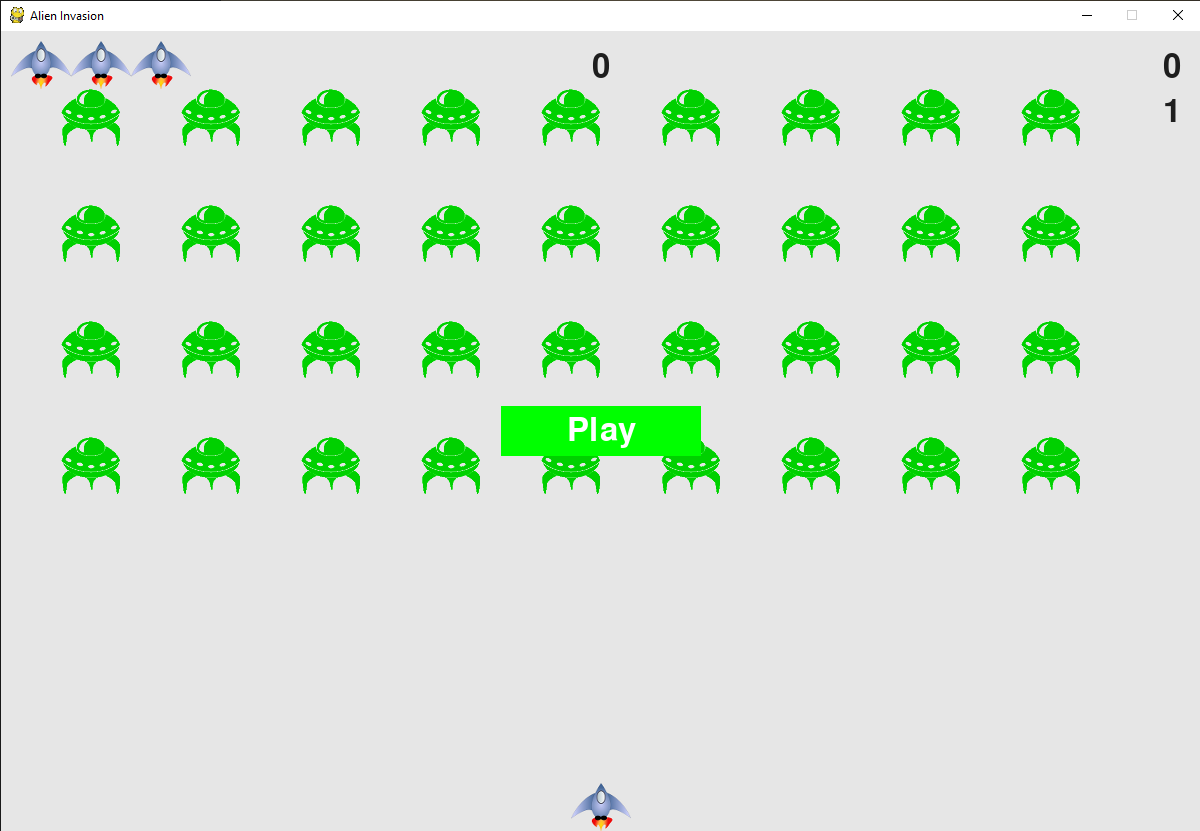
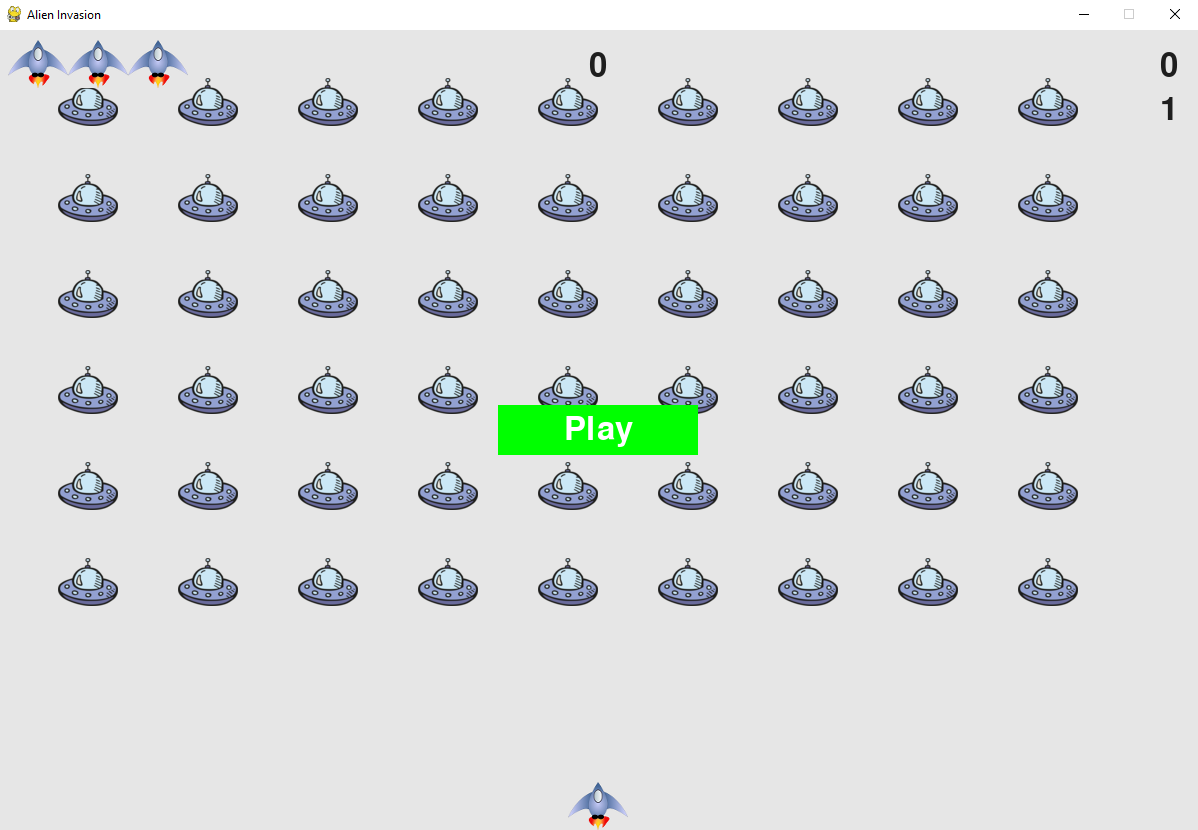
Update 0.2

diff --git a/scoreboard.py b/scoreboard.py
@@ -6,15 +6,15 @@ from ship import Ship
 class Scoreboard:
     """Класс для отображения игровой информации о счете."""
 
-    def __init__(self, ai_settings, screen, stats):
+    def __init__(self, settings, screen, stats):
         """Инициализация атрибутов подсчета очков."""
         self.screen = screen
         self.screen_rect = screen.get_rect()
-        self.ai_settings = ai_settings
+        self.settings = settings
         self.stats = stats
 
         # Настройки шрифта для отображения счета.
-        self.text_color = (30, 30, 30)
+        self.text_color = (230, 230, 230)
         self.font = pygame.font.SysFont(None, 48)
 
         # Подготовка начальных изображений счета.
@@ -27,7 +27,7 @@ class Scoreboard:
         """Преобразует текущий счет в графическое изображение."""
         rounded_score = round(self.stats.score, -1)
         score_str = f"{rounded_score:,}"
-        self.score_image = self.font.render(score_str, True, self.text_color, self.ai_settings.bg_color)
+        self.score_image = self.font.render(score_str, True, self.text_color)
 
         # Размещение счета в правой верхней части экрана.
         self.score_rect = self.score_image.get_rect()
@@ -38,7 +38,7 @@ class Scoreboard:
         """Преобразует рекордный счет в графическое изображение."""
         high_score = round(self.stats.high_score, -1)
         high_score_str = f"{high_score:,}"
-        self.high_score_image = self.font.render(high_score_str, True, self.text_color, self.ai_settings.bg_color)
+        self.high_score_image = self.font.render(high_score_str, True, self.text_color)
 
         # Размещение рекордного счета по центру верхней части экрана.
         self.high_score_rect = self.high_score_image.get_rect()
@@ -47,7 +47,7 @@ class Scoreboard:
 
     def prep_level(self):
         """Преобразует уровень в графическое изображение."""
-        self.level_image = self.font.render(str(self.stats.level), True, self.text_color, self.ai_settings.bg_color)
+        self.level_image = self.font.render(str(self.stats.level), True, self.text_color)
 
         # Размещение уровня под текущим счетом.
         self.level_rect = self.level_image.get_rect()
@@ -58,7 +58,7 @@ class Scoreboard:
         """Показывает количество оставшихся кораблей."""
         self.ships = Group()
         for ship_number in range(self.stats.ships_left):
-            ship = Ship(self.ai_settings, self.screen)
+            ship = Ship(self.settings, self.screen)
             ship.rect.x = 10 + ship_number * ship.rect.width
             ship.rect.y = 10
             self.ships.add(ship)

diff --git a/game_functions.py b/game_functions.py
@@ -73,19 +73,25 @@ def fire_bullet(settings, screen, ship, bullets):
 
 def update_screen(settings, screen, stats, sb, ship, aliens, bullets, play_button):
     """Обновляет изображения на экране и отображает новый экран."""
-    screen.fill(settings.bg_color)
+    # Отображение изображения фона.
+    screen.blit(settings.bg_image, (0, 0))
     
+    # Перерисовка всех снарядов позади корабля и пришельцев.
     for bullet in bullets.sprites():
         bullet.draw_bullet()
     ship.blitme()
     aliens.draw(screen)
     
+    # Отображение информации о счете.
     sb.show_score()
 
+    # Отображение кнопки Play, если игра неактивна.
     if not stats.game_active:
         play_button.draw_button()
 
+    # Отображение последнего прорисованного экрана.
     pygame.display.flip()
+
 
 def update_bullets(settings, screen, stats, sb, ship, aliens, bullets):
     """Обновляет позиции снарядов и уничтожает старые снаряды."""

diff --git a/settings.py b/settings.py
@@ -1,3 +1,5 @@
+import pygame
+
 class Settings:
     """Класс для хранения всех настроек игры Alien Invasion."""
 
@@ -6,15 +8,17 @@ class Settings:
         # Настройки экрана.
         self.screen_width = 1200
         self.screen_height = 800
-        self.bg_color = (230, 230, 230)
 
+        # Загрузка изображения фона.
+        self.bg_image = pygame.image.load('images/background.jpg')
+        
         # Настройки корабля.
         self.ship_limit = 3
 
         # Настройки снарядов.
-        self.bullet_width = 3
+        self.bullet_width = 5
         self.bullet_height = 15
-        self.bullet_color = 60, 60, 60
+        self.bullet_color = 230, 230, 230
         self.bullets_allowed = 3
 
         # Настройки пришельцев.

diff --git a/ship.py b/ship.py
@@ -9,7 +9,7 @@ class Ship(Sprite):
         self.ai_settings = ai_settings
 
         # Загрузка изображения корабля и получение его rect.
-        self.image = pygame.image.load("images/ship.bmp")
+        self.image = pygame.image.load("images/ship.png")
         self.rect = self.image.get_rect()
         self.screen_rect = screen.get_rect()
 
